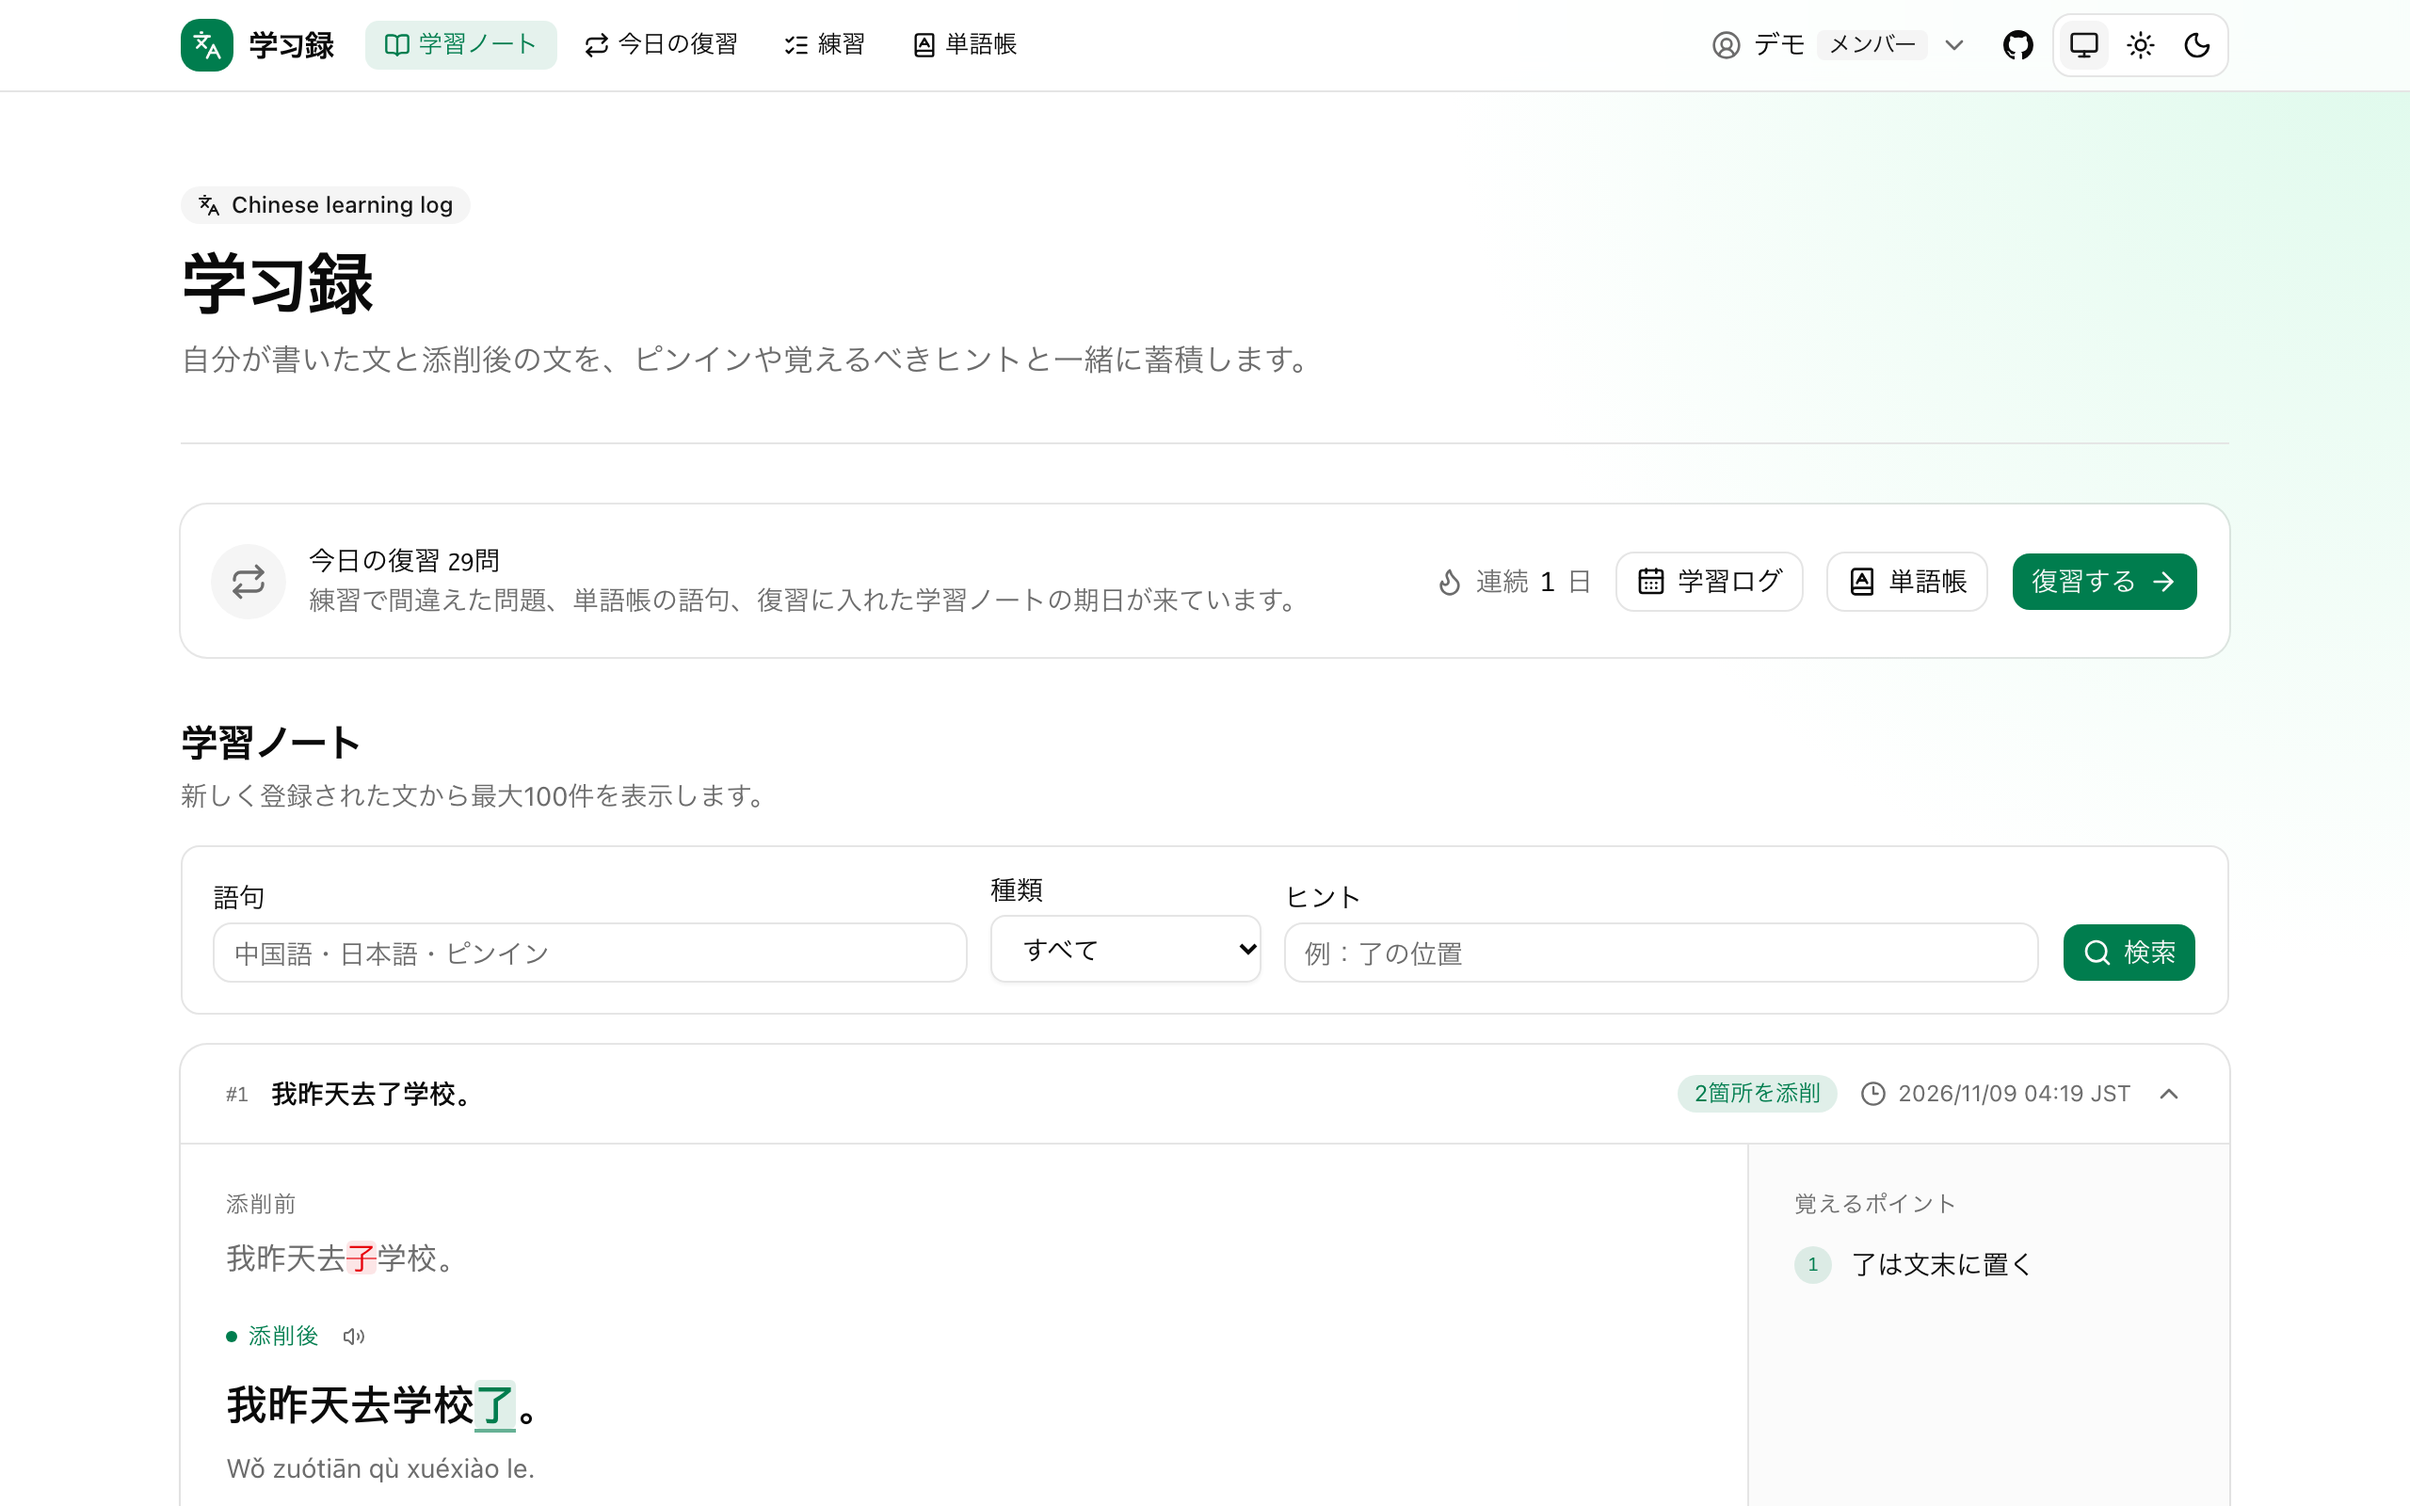
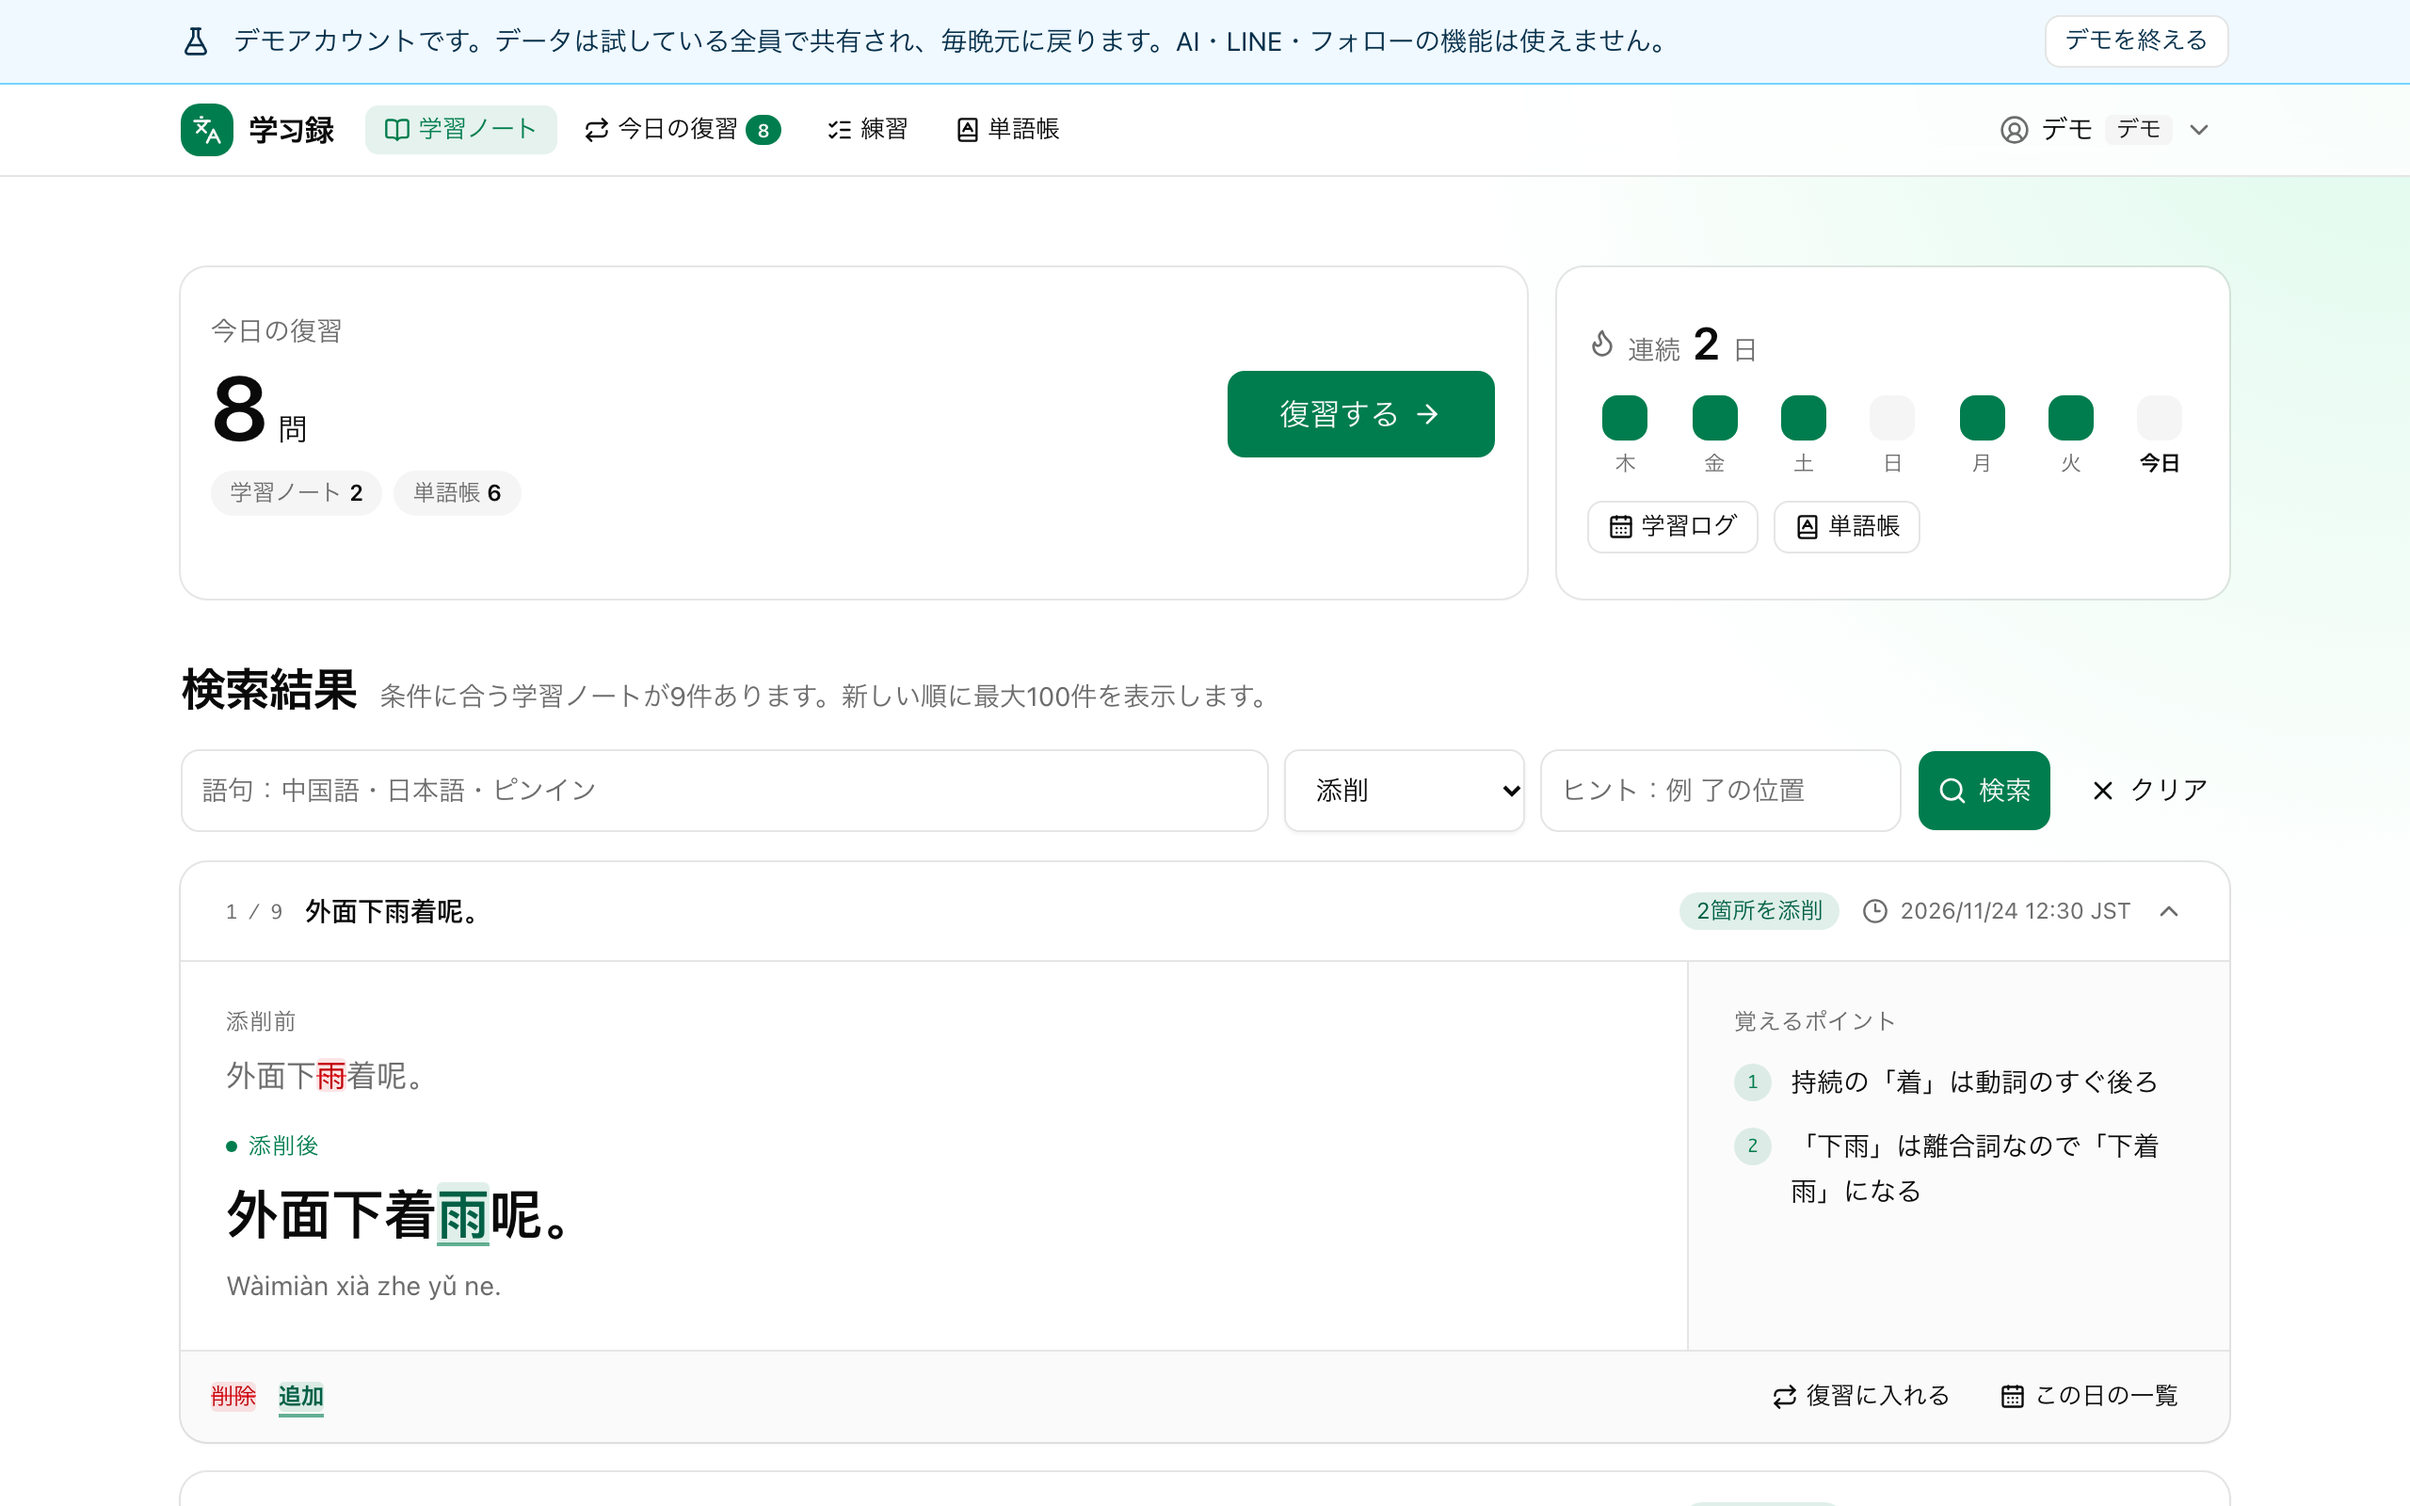
docs: README の画像とテストの件数を今の形に直す
読み上げのボタンを外したあと（#193）、README と設計の文書に古い所が残っていた。

- テストの件数を実測に合わせる（単体 799 → 795 件、E2E 273 → 269 件。
  PC 164 件、うちスマホでも 105 件）。
- README の画像 5 枚を、今の画面で撮り直す（読み上げのボタンが無く、
  デザインを見直したあとの画面）。
- 1 枚目は「添削」で絞り込んで撮る。デモの最新のノートは翻訳で、
  そのままでは説明にある添削の差分が写らないため。
- 撮り方のコメントに、デモのリセットでデータを入れる手順を足す。

diff --git a/docs/architecture.md b/docs/architecture.md
@@ -216,8 +216,8 @@ sequenceDiagram
 
 | 種類       | 数                                           | 中身                                                                                                    |
 | ---------- | -------------------------------------------- | ------------------------------------------------------------------------------------------------------- |
-| 単体（TS） | 799 件                                       | ドメインの規則、表示の変換、層の検査、ログインとセッション、サーバーアクションとページ用ガード          |
-| E2E        | 273 件（PC 166 件、うち 107 件はスマホでも） | Playwright。Docker の Postgres、Web、OpenAI と LINE と Sparklingstadt ID のスタブを立ち上げて画面を通す |
+| 単体（TS） | 795 件                                       | ドメインの規則、表示の変換、層の検査、ログインとセッション、サーバーアクションとページ用ガード          |
+| E2E        | 269 件（PC 164 件、うち 105 件はスマホでも） | Playwright。Docker の Postgres、Web、OpenAI と LINE と Sparklingstadt ID のスタブを立ち上げて画面を通す |
 
 - **E2E の幅**：PC とスマホ（Pixel 7）の 2 つの幅で走らせます。リダイレクト、入力の検査、権限、HTTP ヘッダーのようにサーバーのふるまいだけを見る 59 件は、幅で結果が変わらないので PC だけで走らせます（`e2e/fixtures.ts` の `anyWidth`）。
 - **E2E の土台**：`e2e/server.ts` が、マイグレーション、`next build`、スタブの起動を行います。ログインは Web の `Session` で行い、テストの側が行を書いて `zl_session` を作ります。テストのたびに表を空にします。

diff --git a/README.md b/README.md
@@ -48,7 +48,7 @@
 
 ## 品質
 
-- 単体テスト 799 件（TypeScript）、E2E 273 件（Playwright。PC の幅で 166 件、そのうち画面幅で結果が変わりうる 107 件はスマホの幅でも実行）があります。
+- 単体テスト 795 件（TypeScript）、E2E 269 件（Playwright。PC の幅で 164 件、そのうち画面幅で結果が変わりうる 105 件はスマホの幅でも実行）があります。
 - E2E は、Docker の Postgres、Web、OpenAI と LINE と Sparklingstadt ID のスタブを立ち上げて、本物の画面を通して確かめます。
 - commit の前に format・lint・型チェック、push の前に単体テストと E2E を lefthook が走らせます。
 - 本番の Lighthouse（6 ページとも性能・ベストプラクティス・SEO が 100）とアクセシビリティの記録は [docs/quality.md](docs/quality.md) にあります。
